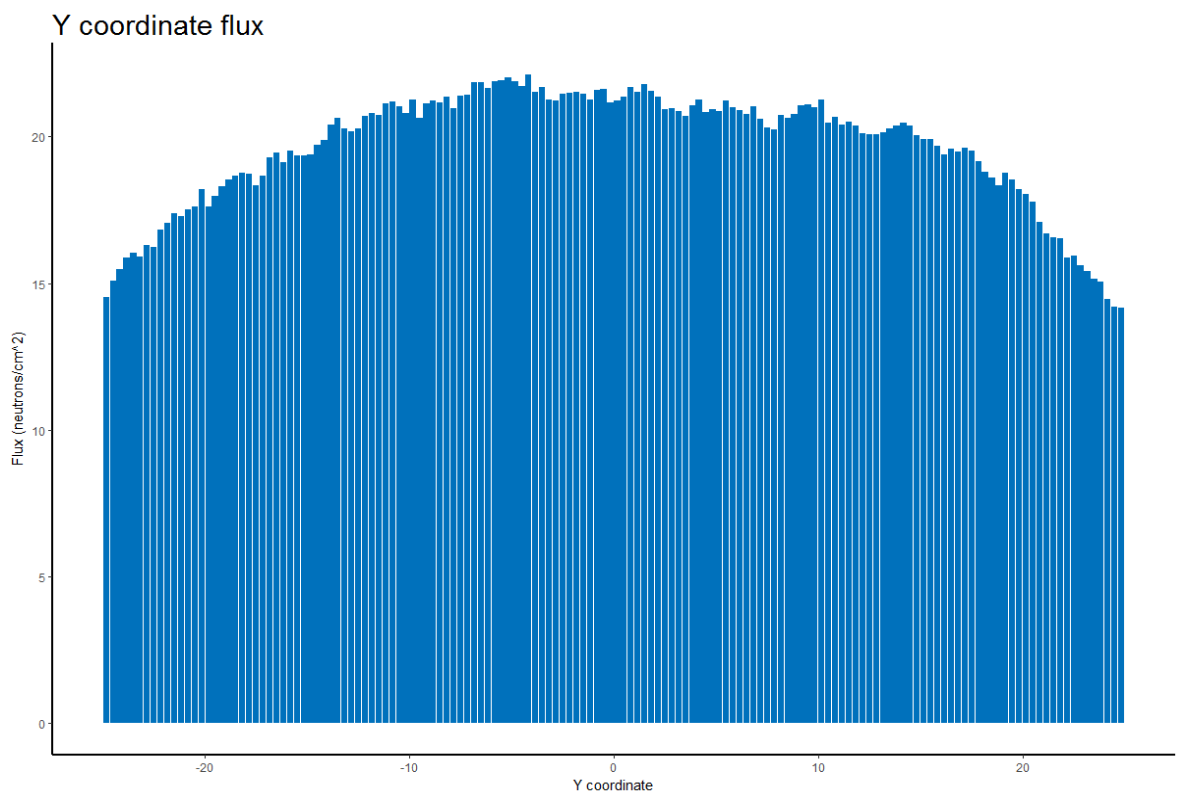
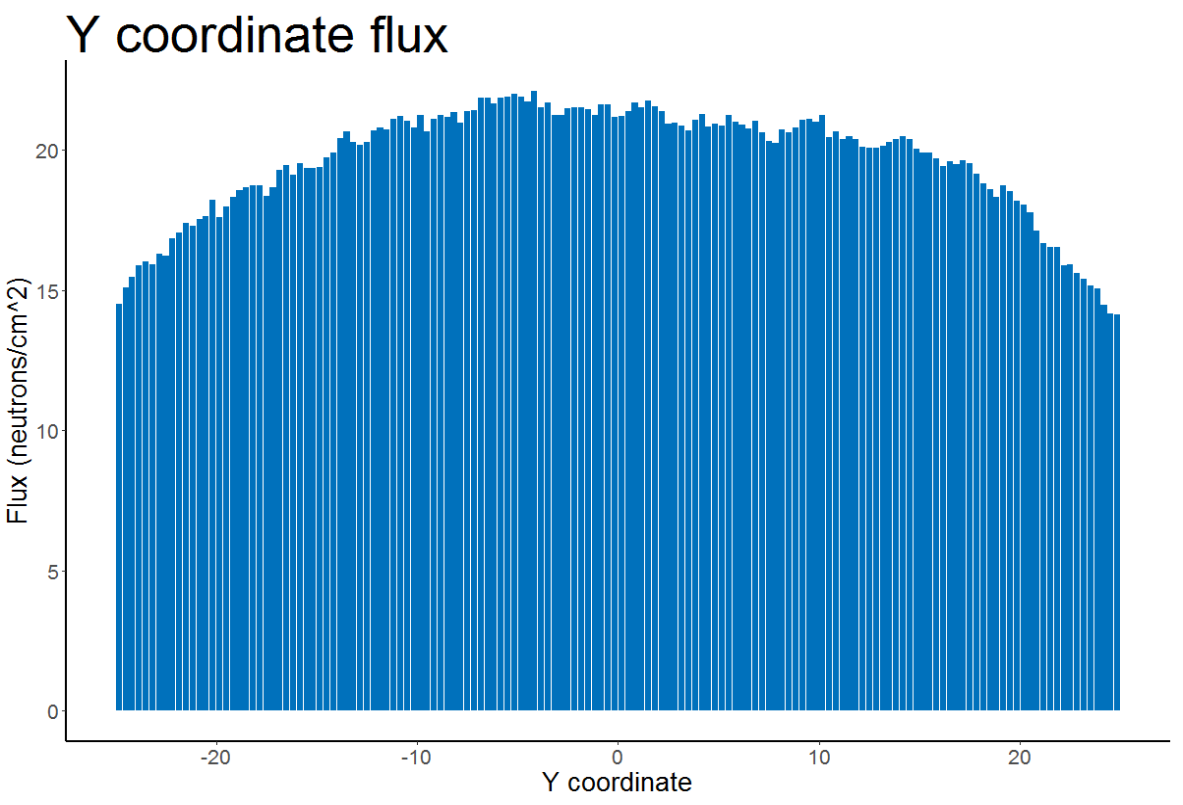
Figures and outline

Changed region(s): [[0.0, 0.0602, 0.9738, 0.9925], [0.0304, 0.0, 0.3956, 0.0902]]

diff --git a/sections/Results.tex b/sections/Results.tex
@@ -144,14 +144,14 @@ The two reactors had higher flux than the Lowell Research Reactor, as seen in Ta
 
 \begin{figure}[!htbp]
 \centering
-\includegraphics[width=0.75\textwidth]{GOFR_spectrum.png}
+\includegraphics[width=\textwidth]{GOFR_spectrum.png}
 \caption{GOFR neutron flux distribution}
 \label{fig:GOFR-spec}
 \end{figure}
 
 \begin{figure}[!htbp]
 \centering
-\includegraphics[width=0.85\textwidth]{water_spectrum.png}
+\includegraphics[width=\textwidth]{water_spectrum.png}
 \caption{Conventional reactor neutron flux distribution}
 \label{fig:water-spec}
 \end{figure}

diff --git a/README.md b/README.md
@@ -21,5 +21,8 @@ The Major Qualifying Project report at WPI. Written by Ivan Melnikov and Sultan 
 - [x] Figure captions
 - [x] New page for each chapter
 - [x] Capitalize figure/table words
+<<<<<<< Updated upstream
 - [x] Page numbers
+=======
+>>>>>>> Stashed changes
 - [x] Results graphs
